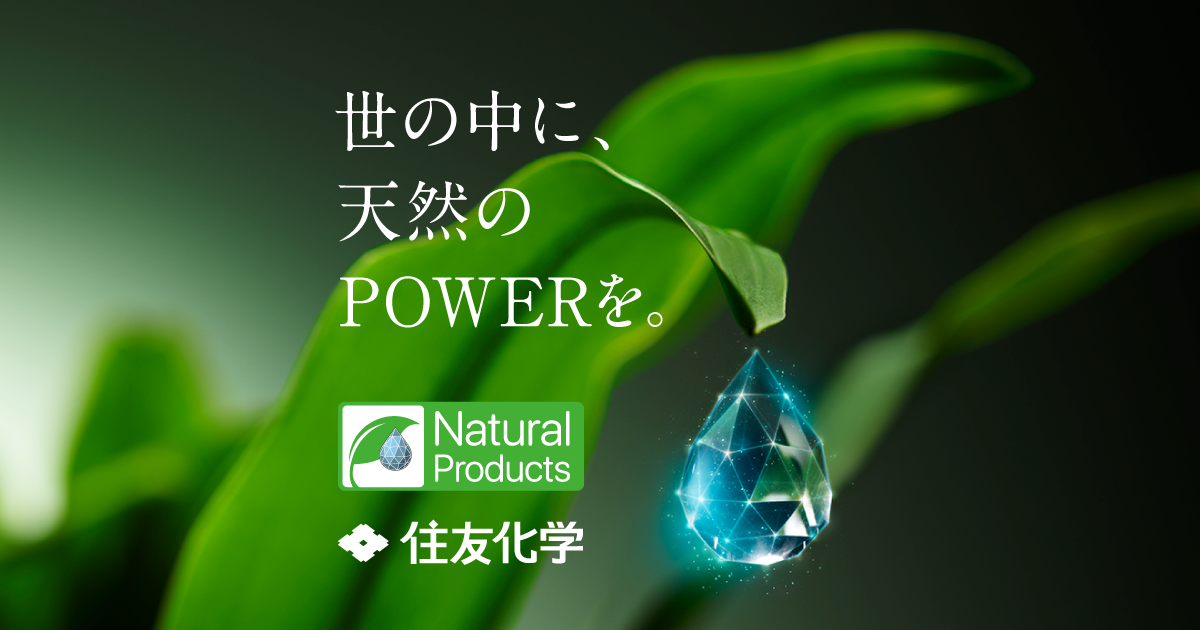
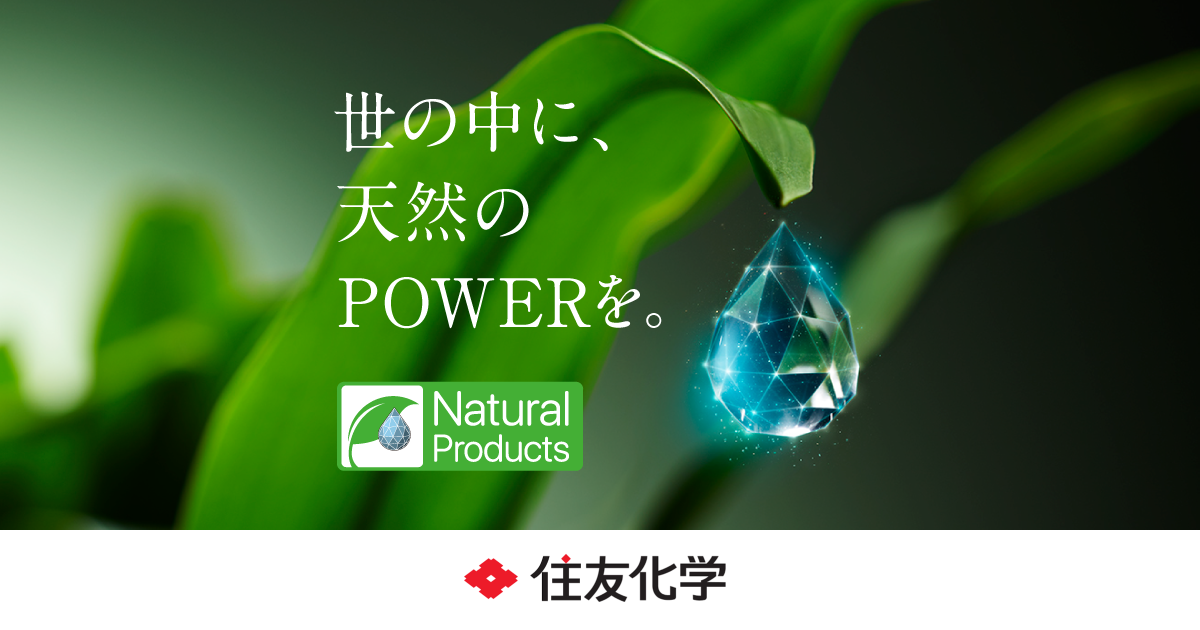
fix: og対応 / header変更

diff --git a/dest/index.html b/dest/index.html
@@ -56,14 +56,14 @@
   <div id="app">
     <header id="top" class="ly_header">
       <div class="un_header_inner">
-        <h1 class="bl_header_logo un_header_logo_natural_products bl_imgWrapper"><a href="./">
-            <picture>
-              <source srcset="./assets/img/pic_logo_natural_products_lg.png" width="125" height="46" media="(min-width: 768px)"><img src="./assets/img/pic_logo_natural_products_sm.png" width="173" height="63" alt="Natural Products" loading="lazy">
-            </picture>
-          </a></h1>
-        <p class="bl_header_logo un_header_logo_sumitomo_chemical bl_imgWrapper"><a href="https://www.sumitomo-chem.co.jp/" target="_blank" rel="noopener">
+        <h1 class="bl_header_logo un_header_logo_sumitomo_chemical bl_imgWrapper"><a href="https://www.sumitomo-chem.co.jp/" target="_blank" rel="noopener">
             <picture>
               <source srcset="./assets/img/pic_logo_sumitomo_chemical_lg.png" width="193" height="36" media="(min-width: 768px)"><img src="./assets/img/pic_logo_sumitomo_chemical_sm.png" width="309" height="57" alt="住友化学株式会社" loading="lazy">
+            </picture>
+          </a></h1>
+        <p class="bl_header_logo un_header_logo_natural_products bl_imgWrapper"><a href="./">
+            <picture>
+              <source srcset="./assets/img/pic_logo_natural_products_lg.png" width="125" height="46" media="(min-width: 768px)"><img src="./assets/img/pic_logo_natural_products_sm.png" width="173" height="63" alt="Natural Products" loading="lazy">
             </picture>
           </a></p>
       </div>

diff --git a/src/scss/assets/css/top.scss b/src/scss/assets/css/top.scss
@@ -80,7 +80,7 @@ $path: "../img/";
 }
 
 .un_header_logo_natural_products {
-  width: vw(173);
+  width: vw(138);
 
   @include breakpoint-up(md) {
     width: liq(125);
@@ -603,6 +603,7 @@ $path: "../img/";
 .bl_bt_products_figcaption {
   font-size: vw(40);
   line-height: lh(40, 68);
+  font-weight: bold;
 
   @include breakpoint-up(md) {
     font-size: liq(26);

diff --git a/dest/assets/css/top.css b/dest/assets/css/top.css
@@ -72,7 +72,7 @@
 }
 
 .un_header_logo_natural_products {
-  width: 23.0666666667vw;
+  width: 18.4vw;
 }
 @media (min-width: 768px) {
   .un_header_logo_natural_products {
@@ -635,6 +635,7 @@
 
 .bl_bt_products_figcaption {
   font-size: 5.3333333333vw;
+  font-weight: bold;
   line-height: 1.7;
 }
 @media (min-width: 768px) {
